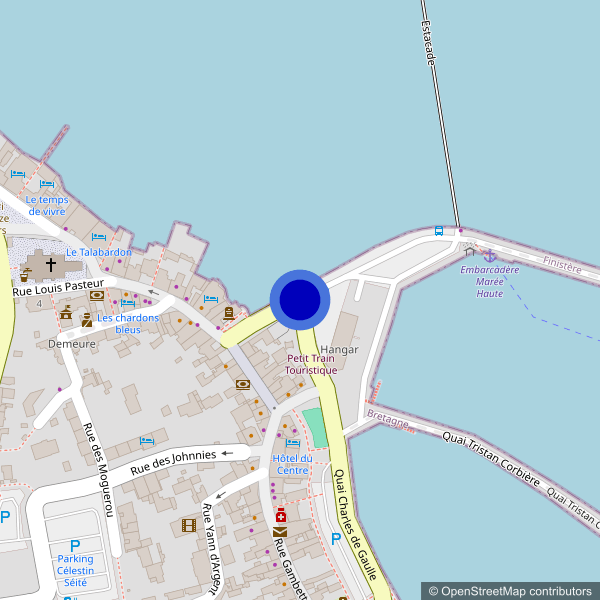
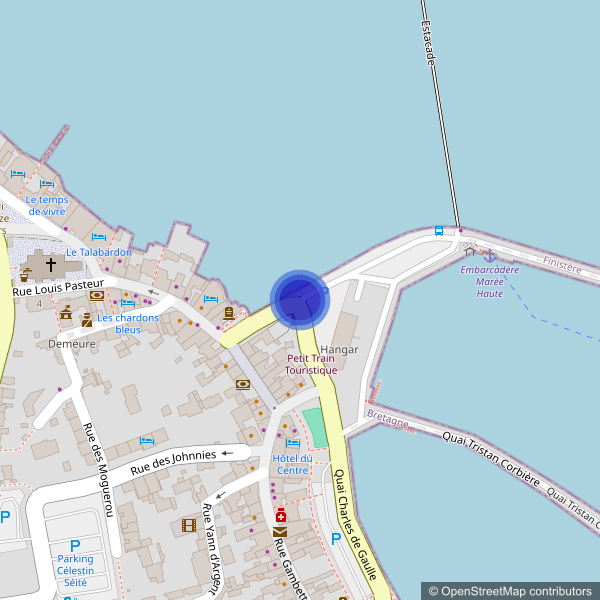
updated examples

Changed region(s): [[0.45, 0.45, 0.57, 0.57]]

diff --git a/README.md b/README.md
@@ -311,7 +311,7 @@ circle=circleStyle|circleCoord
 **Example**: Circle with a radius of `20` meters.
 
 ```
-http://localhost:3000/api/staticmaps?width=600&height=600&basemap=osm&circle=radius:20|color:4874db|fill:0000bb|width:10|48.726304979176675,-3.9829935637739382
+http://localhost:3000/api/staticmaps?width=600&height=600&basemap=osm&circle=radius:20|color:4874dbb2|fill:0000bbbd|width:10|48.726304979176675,-3.9829935637739382
 ```
 
 ![Circle Example](https://raw.githubusercontent.com/dietrichmax/docker-staticmaps/refs/heads/main/examples/circle.png)
